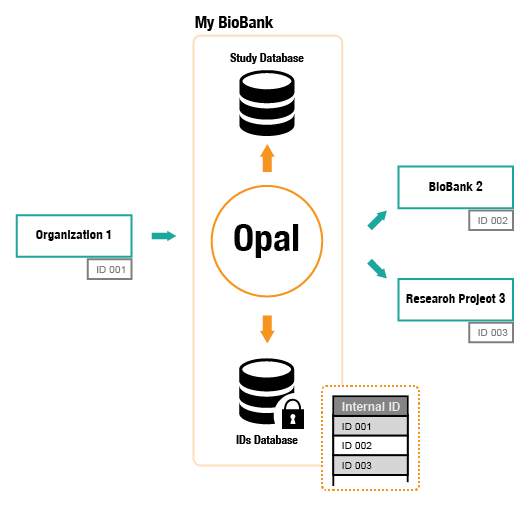
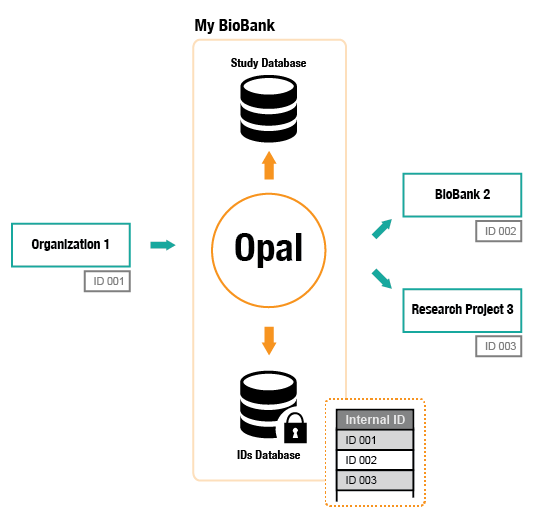
Added new text, updates images

diff --git a/_includes/themes/bootstrap/stories/data-harmonization.html b/_includes/themes/bootstrap/stories/data-harmonization.html
@@ -1,24 +1,27 @@
 <p>This story is an impressive example of use of the OBIBA software to create a federated database enabling advanced
-    analysis without divulging any individual-level data.</p>
+  analysis without divulging any individual-level data.</p>
 
-<p>BioSHare is a European FP7 funded project which has a mission to standardize and harmonize data from some of the
-    largest biobanks in Europe. More than 160 selected data elements from 13 European biobanks including UK Biobank,
-    Lifelines (Netherlands) and the Nord-Trøndelag Health Study (Norway) have been harmonized by Maelstrom Research and
-    corresponding harmonized datasets were derived and stored locally by each cohorts in their local Opal database.</p>
+<p><a href="http://www.bioshare.eu/" target="_blank">BioSHaRE <i class="fa fa-external-link-square"></i></a> is a
+  European project which aims to standardize and harmonize data from some of the largest biobanks in
+  Europe. More than 160 selected data elements from 13 European biobanks including UK Biobank and Lifelines
+  (Netherlands) have been harmonized by <a href="http://www.maelstrom-research.org/" target="_blank">Maelstrom Research
+    <i class="fa fa-external-link-square"></i></a> and corresponding harmonized datasets were derived and stored
+  locally by each cohort using its local Opal software instance.</p>
 
-<p>These databases have been then securely connected to the Mica-based BioSHARE website (bioshare.eu) and to the
-    DataSHIELD rstudio client (rstudio.bioshare.eu) to create a federated database system of more than 650,000 European
-    subjects. Using this infrastructure, researchers participating in this collaborative endeavour can log on and
-    securely run distributed queries and statistical analysis on the harmonized databases hosted on these
-    geographically-dispersed data computers. Queries available in a Mica-Opal federated infrastructure allows remote
-    retrieval of harmonized data summaries and descriptive statistics such as frequencies/counts, minimums, maximums,
-    means, standard deviations, as well as contingency tables for each participating biobank in real time. DataSHIELD
-    allows more advanced types of real time analyses such as generalized linear model fitting without disclosing any
-    individual-level data.</p>
 
-<p>More details can be read in <a href="http://www.biomedcentral.com/content/pdf/1742-7622-10-12.pdf" target="_blank">Data
-    harmonization and federated analysis of population-based studies <i class="fa fa-external-link-square"></i></a>
-    publication.</p>
+<p>The 13 resulting databases were then securely federated through the Mica-based <a href="http://www.bioshare.eu/"
+                                                                                     target="_blank">BioSHARE website <i
+  class="fa fa-external-link-square"></i></a> and the
+  DataSHIELD R client (rstudio.bioshare.eu) to create a distributed dataset on more than 650,000 European subjects.
+  Authorised researchers can now securely run distributed queries and statistical analyses on the harmonized data hosted
+  on geographically-dispersed Opal servers. Queries from Mica allows remote retrieval of data summaries and descriptive
+  statistics such as frequencies/counts, minimums, maximums, means, standard deviations, as well as contingency tables
+  for each participating biobank in real time whereas DataSHIELD allows more advanced types of real time analyses such
+  as generalized linear model fitting. In both cases, no individual-level data is ever transferred or disclosed to the
+  researchers protecting this way subjects’ privacy.</p>
+
+<p>More details can be read in this <a href="http://www.biomedcentral.com/content/pdf/1742-7622-10-12.pdf"
+                                       target="_blank">publication <i class="fa fa-external-link-square"></i></a>.</p>
 
 {% include themes/bootstrap/image-item.html src='/assets/themes/bootstrap/img/bioshare-federation-map.png' header='BioSHaRE Federated Cohorts' caption='The BioSHaRE federated database connects together Opal databases from xx cohorts in yy different European countries and includes data on more than 650,000 subjects.' %}
 

diff --git a/assets/themes/bootstrap/js/obiba.min.js b/assets/themes/bootstrap/js/obiba.min.js
@@ -1,1 +1,1 @@
-!function(a){"use strict";a.popImageModal=function(b,c,d,e){a("#image-modal-container").modal({backdrop:!0,keyboard:!0}),a("#image-modal-container #image-modal").css({width:function(){return.5*a(document).width()+"px"}}),e||a("#model-footer-pager").hide(),a("#modal-image-holder").attr("src",b),a("#modal-image-header").text(c),a("#modal-image-caption").text(d)}}(jQuery);var ModalImageBrowser=function(){function a(){function a(){i.length>0&&($.popImageModal(i[h].src,"Image "+(h+1)+" of "+g,"",!0),f())}function b(){$("#modal-image-holder").attr("src",i[h].src),$("#modal-image-header").text("Image "+(h+1)+" of "+g)}function c(){h=(h+1)%g,b()}function d(){console.log(h,g-h-1),h=(0>h-1?g-1:h-1)%g,b()}function e(){$(document).unbind("keydown")}function f(){$(document).bind("keydown",function(a){switch(a.which||a.keyCode){case 37:d();break;case 39:c()}})}var g=0,h=0,i=[];return{init:function(b){indexInfo=new RegExp("(\\d+):(\\d+)").exec(b.id),i=$(b).parents("ul#image-gallery-container").find("img"),indexInfo&&i||console.log("Need to have an 'img' element with id in 'size:index' format."),g=indexInfo[1],h=indexInfo[2]-1,$("#image-modal-container").on("hide.bs.modal",function(){e()}),$("#model-footer-pager #modal-pager-prev").click(d),$("#model-footer-pager #modal-pager-next").click(c),a()}}}var b;return{getInstance:function(){return b||(b=a()),b}}}();
+!function(a){"use strict";a.popImageModal=function(b,c,d,e){a("#image-modal-container").modal({backdrop:!0,keyboard:!0}),a("#image-modal-container #image-modal").css({width:function(){return.5*a(document).width()+"px"}}),a("#modal-image-holder").css({left:function(){return.25*a(document).width()+"px"}}),e||a("#model-footer-pager").hide(),a("#modal-image-holder").attr("src",b),a("#modal-image-header").text(c),a("#modal-image-caption").text(d)}}(jQuery);var ModalImageBrowser=function(){function a(){function a(){i.length>0&&($.popImageModal(i[h].src,"Image "+(h+1)+" of "+g,"",!0),f())}function b(){$("#modal-image-holder").attr("src",i[h].src),$("#modal-image-header").text("Image "+(h+1)+" of "+g)}function c(){h=(h+1)%g,b()}function d(){console.log(h,g-h-1),h=(0>h-1?g-1:h-1)%g,b()}function e(){$(document).unbind("keydown")}function f(){$(document).bind("keydown",function(a){switch(a.which||a.keyCode){case 37:d();break;case 39:c()}})}var g=0,h=0,i=[];return{init:function(b){indexInfo=new RegExp("(\\d+):(\\d+)").exec(b.id),i=$(b).parents("ul#image-gallery-container").find("img"),indexInfo&&i||console.log("Need to have an 'img' element with id in 'size:index' format."),g=indexInfo[1],h=indexInfo[2]-1,$("#image-modal-container").on("hide.bs.modal",function(){e()}),$("#model-footer-pager #modal-pager-prev").click(d),$("#model-footer-pager #modal-pager-next").click(c),a()}}}var b;return{getInstance:function(){return b||(b=a()),b}}}();

diff --git a/_includes/themes/bootstrap/opal/features.html b/_includes/themes/bootstrap/opal/features.html
@@ -3,10 +3,7 @@
 </div>
 
 <div>
-  <p>Opal's database structure enables to store values on an unlimited number of variables without any database
-    structure alterations. Customized variable dictionaries are simply defined in Excel files that are then uploaded
-    into Opal. Here are some of the main features and functionality of the Opal's database:</p>
-
+  <p>Here are some of the main features of the Opal’s data warehouse technologies:</p>
 
   <ul class="obiba-carret-list">
     <li>Store data on an unlimited number of variables without any database structure alterations.</li>
@@ -62,8 +59,8 @@
     <li>Restful services using HTTPS protocol.</li>
   </ul>
 
-  <div class="obiba-top-margin obiba-image-holder-background text-center">
-    <img src='/assets/themes/bootstrap/img/opal-privacy.png' alt="Opa ID Mapping">
+  <div class="obiba-image-holder">
+    {% include themes/bootstrap/image-item.html src='/assets/themes/bootstrap/img/opal-privacy.png' header='Onyx Engine' caption='The Onyx engine provides the main functionalities (shown in green). Onyx modules (orange orange) collect data for the different stages of an interview.' %}
   </div>
 
 </div>
@@ -77,8 +74,8 @@
     software. Opal comes with its own file system to facilitate these processes:</p>
 
   <ul class="obiba-carret-list">
-    <li>Centralized and file management</li>
-    <li>SFTP access</li>
+    <li>Centralized and file management.</li>
+    <li>SFTP access.</li>
   </ul>
 
 </div>
@@ -89,10 +86,10 @@
   </div>
 
   <p>The ability to create complex report on the data is essential for managing properly a study. Opal is able to
-    create sophisticated report using the R library (...) to provide:</p>
+    create sophisticated report using the R library:</p>
 
   <ul class="obiba-carret-list">
-    <li>Scheduled Execution (with email notifications)</li>
+    <li>Scheduled Execution (with email notifications).</li>
   </ul>
 
   <p><a href="http://wiki.obiba.org/display/OPALDOC/Opal+Reporting+User+Guide" target="_blank">Learn more <i
@@ -109,8 +106,8 @@
     instance within that environment:</p>
 
   <ul class="obiba-carret-list">
-    <li>R server monitoring from Opal</li>
-    <li>Opal data pushed automatically into R sessions (server side)</li>
+    <li>R server monitoring from Opal.</li>
+    <li>Opal data pushed automatically into R sessions (server side).</li>
   </ul>
 
   <p><a href="http://wiki.obiba.org/display/OPALDOC/Opal+Reporting+User+Guide" target="_blank">Learn more <i
@@ -127,8 +124,8 @@
     thanks to the ElasticSearch software:</p>
 
   <ul class="obiba-carret-list">
-    <li>Clustered indexing</li>
-    <li>Real-time search capability</li>
+    <li>Clustered indexing.</li>
+    <li>Real-time search capability.</li>
   </ul>
 </div>
 

diff --git a/_includes/themes/bootstrap/image-modal.html b/_includes/themes/bootstrap/image-modal.html
@@ -1,4 +1,4 @@
-<div id="image-modal-container" class="modal fade" tabindex="-1" role="dialog">
+<div id="image-modal-container" class="modal fade img-responsive" tabindex="-1" role="dialog">
   <div id="image-modal" class="modal-dialog">
     <div class="modal-content">
       <div class="modal-header">
@@ -12,8 +12,10 @@
       <div class="modal-footer">
         <h5 id="modal-image-caption" class="help-block text-left"></h5>
         <ul id="model-footer-pager" class="pager">
-          <li class="previous"><a id="modal-pager-prev" onclick="ModalImageBrowser.getInstance().prev();" href="#">&larr; Previous</a></li>
-          <li class="next"><a id="modal-pager-next" onclick="ModalImageBrowser.getInstance().next();" href="#">Next &rarr;</a></li>
+          <li class="previous"><a id="modal-pager-prev" onclick="ModalImageBrowser.getInstance().prev();"
+                                  href="#">&larr; Previous</a></li>
+          <li class="next"><a id="modal-pager-next" onclick="ModalImageBrowser.getInstance().next();"
+                              href="#">Next &rarr;</a></li>
         </ul>
       </div>
     </div>

diff --git a/assets/themes/bootstrap/js/obiba.js b/assets/themes/bootstrap/js/obiba.js
@@ -14,6 +14,13 @@
         }
       });
 
+    $('#modal-image-holder')
+      .css({
+        'left': function () {
+          return ($(document).width() * .25) + 'px';
+        }
+      });
+
 
     if (!pager) {
       $('#model-footer-pager').hide();
@@ -67,7 +74,7 @@ var ModalImageBrowser = (function () {
     }
 
     function bindKeydownEvents() {
-      $(document).bind('keydown', function(e) {
+      $(document).bind('keydown', function (e) {
         switch (e.which || e.keyCode) {
           case 37:
             prev();

diff --git a/_includes/themes/bootstrap/opal/what.html b/_includes/themes/bootstrap/opal/what.html
@@ -22,6 +22,10 @@
   R and Python command line clients.
 </p>
 
+<p>Opal is highly scalable and can store very large datasets, thanks to its state-of-the art database technologies built
+  upon <a href="http://www.mongodb.org">MongoDB <i class="fa fa-external-link-square"></i></a> and <a
+    href="http://www.elasticsearch.org/">ElasticSearch <i class="fa fa-external-link-square"></i></a>.</p>
+
 <p>Here are some screenshots show casing Opal's UI sections:</p>
 
 <div class="hidden-xs">
